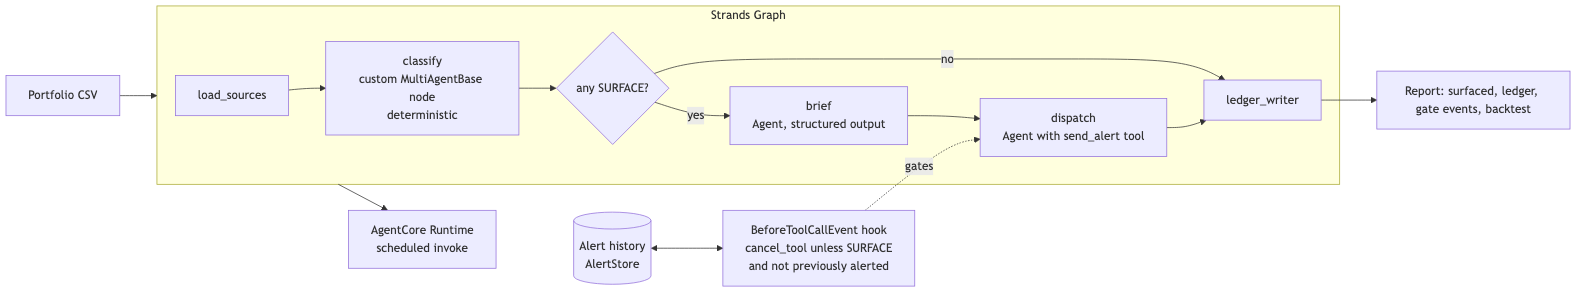
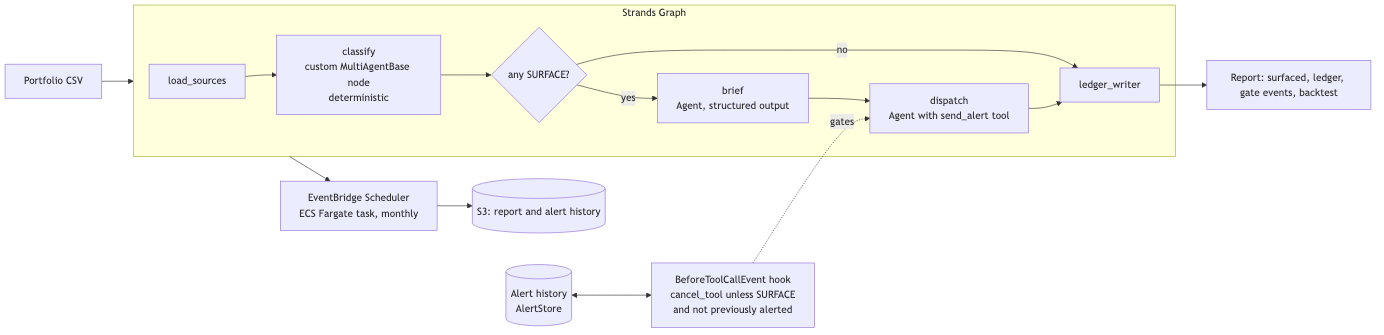
Document the scheduled Fargate sweep and the delivery channel

diff --git a/web/src/pages/landing/BuiltOn.tsx b/web/src/pages/landing/BuiltOn.tsx
@@ -12,16 +12,21 @@ const BUILT_ON = [
     wash: 'bg-flag-wash',
   },
   {
-    name: 'Amazon Bedrock AgentCore Runtime',
-    role: 'the entrypoint the run is invoked through, exercised locally for this submission',
+    name: 'Amazon EventBridge Scheduler and ECS Fargate',
+    role: 'the monthly sweep, on the 7th at 12:00 UTC, publishing the report and the alert history to S3',
     wash: 'bg-mint-veil',
+  },
+  {
+    name: 'Amazon SES and AgentCore Runtime',
+    role: 'the delivery channel behind send_alert, and the entrypoint the same pipeline answers on',
+    wash: 'bg-accent-wash',
   },
 ]
 
 export function BuiltOn() {
   return (
     <Section title="Built on" align="center">
-      <dl className="m-0 grid gap-6 sm:grid-cols-3">
+      <dl className="m-0 grid gap-6 sm:grid-cols-2 lg:grid-cols-4">
         {BUILT_ON.map((item) => (
           <div key={item.name} className="card p-6 sm:p-8">
             <span aria-hidden="true" className={`block h-10 w-10 rounded-full ${item.wash}`} />

diff --git a/README.md b/README.md
@@ -25,7 +25,7 @@ Kizashi computes the date from the public record instead of waiting for the list
 - `strands.multiagent.GraphBuilder` assembles the pipeline: a custom `MultiAgentBase` node runs the deterministic classifier and never calls a model, then a brief agent with pydantic structured output, then a dispatch agent that owns the `send_alert` tool.
 - `strands.hooks.BeforeToolCallEvent` is the gate. It reads the ledger and the alert history and sets `cancel_tool` with a reason string when the call is not allowed, and records a `hold_for_review` call as a third decision, "held", without writing alert history. `AfterToolCallEvent` records the sends with their delivery id.
 - The model is served by Amazon Bedrock through the Mantle endpoint, using the `OpenAIModel` provider with `bedrock_mantle_config`, which mints a short-term Bedrock API key per request from the AWS session. The default model is `google.gemma-4-31b`.
-- The runtime entrypoint is a `BedrockAgentCoreApp`, invoked at `/invocations` with a portfolio path and an as-of date.
+- The runtime entrypoint is a `BedrockAgentCoreApp`, invoked at `/invocations` with a portfolio path and an as-of date. The scheduled sweep runs the same pipeline as an ECS Fargate task from an EventBridge Scheduler schedule and publishes to S3.
 
 ## Architecture
 
@@ -45,7 +45,8 @@ flowchart LR
   H[BeforeToolCallEvent hook<br/>cancel_tool unless SURFACE<br/>and not previously alerted] -. gates .-> E
   M[(Alert history<br/>AlertStore)] <--> H
   L --> R[Report: surfaced, ledger, gate events, backtest]
-  G --> RT[AgentCore Runtime<br/>scheduled invoke]
+  G --> RT[EventBridge Scheduler<br/>ECS Fargate task, monthly]
+  RT --> S3[(S3: report and alert history)]
 ```
 
 ## Run it
@@ -98,7 +99,11 @@ The bias runs one way: an organization that filed since would not look delinquen
 
 ## Runtime
 
-`uv run python src/kizashi/runtime_app.py` starts the AgentCore runtime contract locally on port 8080; `POST /invocations` with `{"portfolio_csv": "data/demo/portfolio-nj-086.csv", "with_model": false}` returns the run summary. Deploying it to a hosted AgentCore Runtime is blocked on this AWS account by a zero agents-per-account quota, so the hosted step is not part of this submission.
+The sweep runs on a schedule with nobody watching. `infra/scheduled-run.sh` creates, idempotently, an S3 bucket (`kizashi-runs-<account>`, private), an ECR repository, a CloudWatch log group, three IAM roles, an ECS cluster, a Fargate task definition (`kizashi-sweep`, 1 vCPU, 4 GB, the image built from the `Dockerfile` at the root) and an EventBridge Scheduler schedule `kizashi-monthly` with `cron(0 12 7 * ? *)`, 12:00 UTC on the 7th, after the IRS refreshes the monthly files. The task runs `scripts/scheduled-run.sh`: pull the alert history from S3, fetch the three IRS files, run the full pipeline with the model, and publish the report and the updated alert history back to S3 (`runs/<run_id>.json`, `runs/latest.json`, `state/alerts.json`). The task role holds `bedrock-mantle:CreateInference` and `bedrock-mantle:CallWithBearerToken`, which is what the Mantle endpoint actually checks; the classic `bedrock:*` actions were never exercised.
+
+A scheduled launch on 2026-09-12 ran the pipeline end to end in 4 minutes 45 seconds of container time: 38 briefs from the model, 36 alerts sent on the dry-run channel, 2 held, backtest and silence score attached, alert history written back. The schedule is enabled.
+
+`uv run python src/kizashi/runtime_app.py` starts the AgentCore runtime contract locally on port 8080; `POST /invocations` with `{"portfolio_csv": "data/demo/portfolio-nj-086.csv", "with_model": false}` returns the run summary. Deploying that entrypoint to a hosted AgentCore Runtime is blocked on this AWS account by a zero agents-per-account quota, so the hosted step is not part of this submission; the scheduled Fargate task is.
 
 ## Source agreement
 
